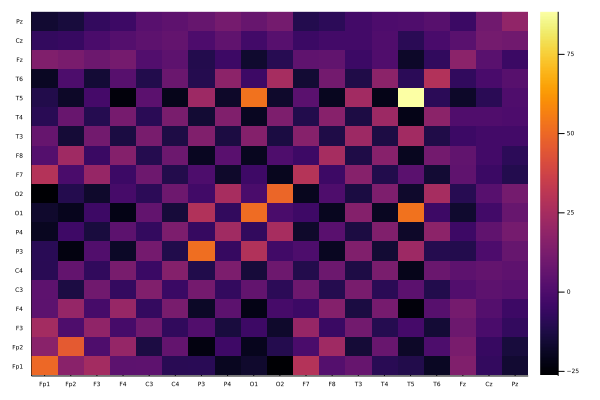
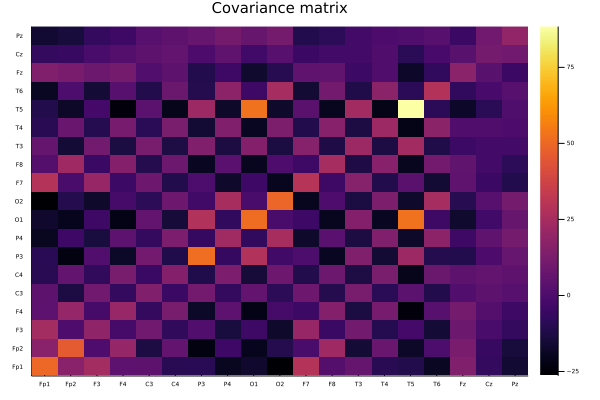
update: tutorial

diff --git a/Tutorial.md b/Tutorial.md
@@ -298,7 +298,7 @@ plot(p1, p2, layout=(1, 2))
 Calculate covariance matrix:
 ```julia
 edf_cov = eeg_cov(edf)
-p = eeg_plot_matrix(edf, edf_cov)
+p = eeg_plot_matrix(edf, edf_cov, title="Covariance matrix")
 eeg_plot_save(p, file_name="images/edf_cov.png")
 eeg_cov!(edf)
 ```
